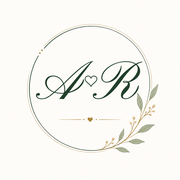
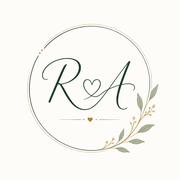
Use the same R♥A monogram as the Rahul site
Logo, favicon, home-screen icon and WhatsApp preview now match.

Claude-Session: https://claude.ai/code/session_011GssA1tV7smSn3sGNsbsNK

Changed region(s): [[0.1944, 0.3333, 0.8056, 0.6111], [0.25, 0.3056, 0.4167, 0.3889], [0.3889, 0.5556, 0.5278, 0.6111]]

diff --git a/index.html b/index.html
@@ -132,7 +132,7 @@
         <div class="hero-bg" style="background-image: url('images/hero_indian.webp');"></div>
         <div class="hero-overlay"></div>
         <div class="hero-content">
-            <img src="images/logo.webp" alt="Avishi & Rahul monogram" class="hero-logo-img intro-item intro-seal" style="--d:0ms" width="140" height="140">
+            <img src="images/logo.webp" alt="Wedding monogram" class="hero-logo-img intro-item intro-seal" style="--d:0ms" width="140" height="140">
 
             <p class="hero-subtitle intro-item intro-track" style="--d:450ms">Shubh Vivah</p>
             <h1 class="hero-title" style="--d:700ms" data-split>Avishi & Rahul</h1>
@@ -477,7 +477,7 @@
     <!-- Footer -->
     <footer class="footer-section">
         <div class="container">
-            <img src="images/logo.webp" alt="Avishi & Rahul monogram" class="footer-logo-img" loading="lazy">
+            <img src="images/logo.webp" alt="Wedding monogram" class="footer-logo-img" loading="lazy">
 
             <p class="footer-tagline">We can't wait to celebrate with you!</p>
 
